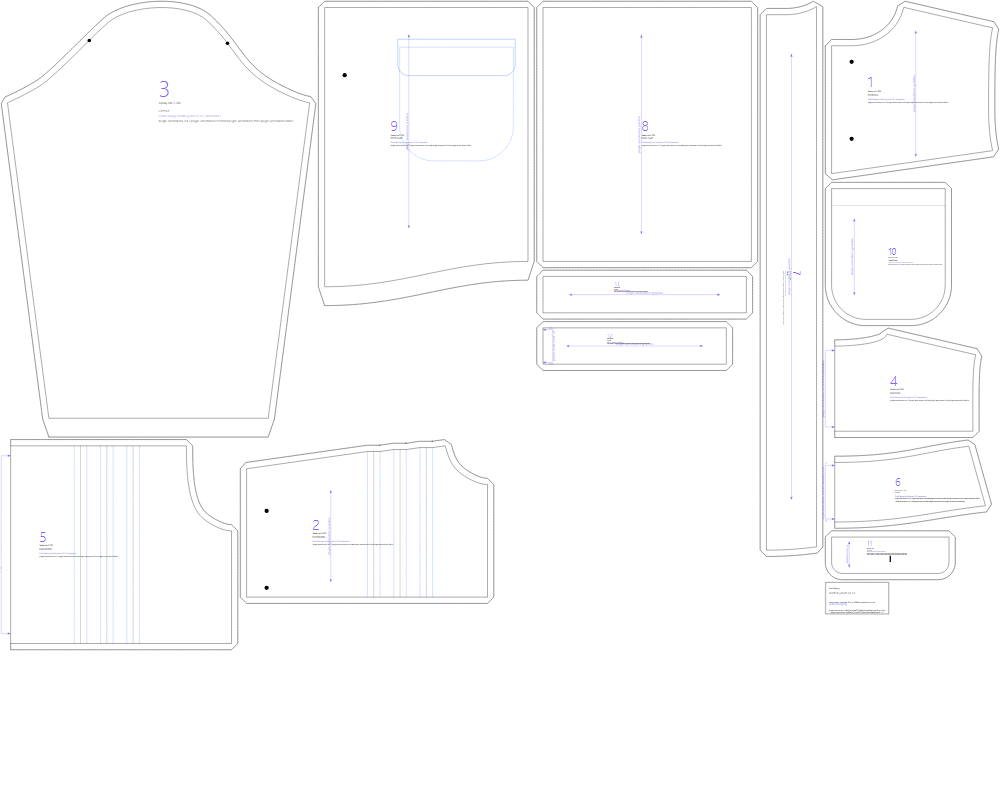
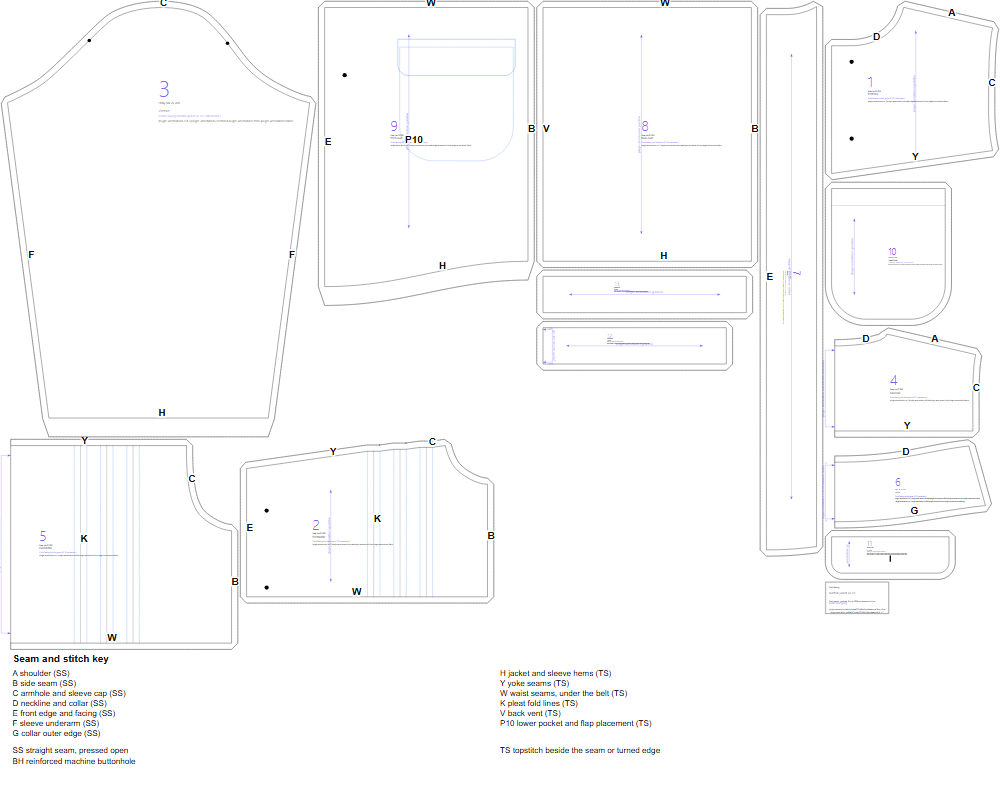
Map the Norfolk jacket: yoke, pleated middle and lower panels, belt, vent

diff --git a/designs/norfolk-jacket/BRIEF.md b/designs/norfolk-jacket/BRIEF.md
@@ -63,13 +63,15 @@ Front yoke, front middle, front lower (cut 2 each); back yoke (fold), back middl
 or on the fold with the vent off); collar, facing, sleeve, pockets and flaps, back belt, front belt.
 
 ## Construction
-1. Fold each pleat on its dashed lines and baste it at the top and bottom.
-2. Sew each front yoke, middle and lower together; the same for the back. The pleats close to the yoke's width.
-3. Sew the vent's lap at the waist, under the belt's place. Patch pockets and flaps on the front lower.
-4. Shoulders, side seams, sleeves.
-5. Facing and collar, turning the lapel at the break.
-6. Belt pieces, faced, centred on the waist seams and stitched at the back and sides, buttoned at the front.
-7. Hem, buttons and buttonholes.
+Letters are the seam and placement codes on the pattern map; numbers are printed on the pieces. **SS** straight seam pressed open, **TS** topstitch, **BH** machine buttonhole.
+
+1. Fold each pleat on its dashed lines **K** in the front and back middles **2** and **5**, and baste it at the top and bottom.
+2. Sew each front yoke **1**, middle **2** and lower **9** together at the yoke seam **Y** and waist seam **W**; the same for the back yoke **4**, middle **5** and lower **8**. The pleats close to the yoke's width. Topstitch with **TS**.
+3. Sew the vent's lap **V** on the back lower **8** at the waist, under the belt's place. Sew the patch pockets **10** and flaps **11** to the front lower **9** at **P10**.
+4. Sew the shoulders **A** of the yokes **1** and **4**, the side seams **B** through the middles **2**, **5** and lowers **9**, **8**, then close each sleeve **3** at **F** and set it into the armhole **C**.
+5. Sew the facing **7** to the front edge **E**, and the collar **6**, made up along **G**, to the neckline **D** of the yokes **1** and **4**, turning the lapel at the break.
+6. Make the belt pieces **12** and **13**, faced, centre them on the waist seams and stitch them at the back and sides, buttoned at the front.
+7. Hem the lowers **9**, **8** and sleeves **3** along **H**; work the buttonholes **BH** on the front middle **2** and lower and sew on the buttons.
 
 ## Checks
 `test/norfolk-jacket.test.mjs`: every size, with lapels, buttoned to the neck, no pleats or vent, and four
